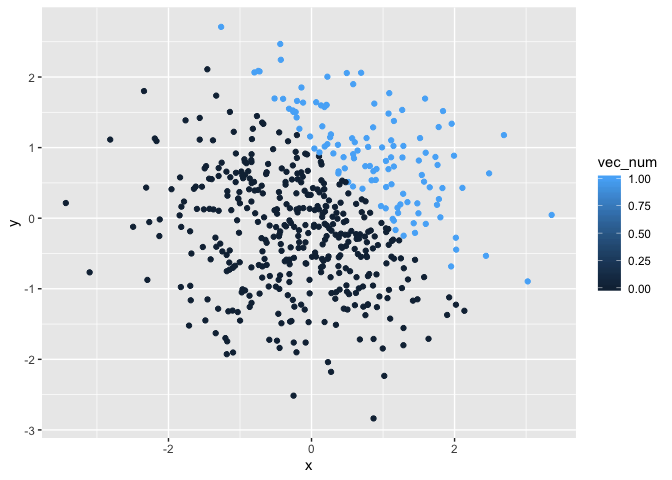
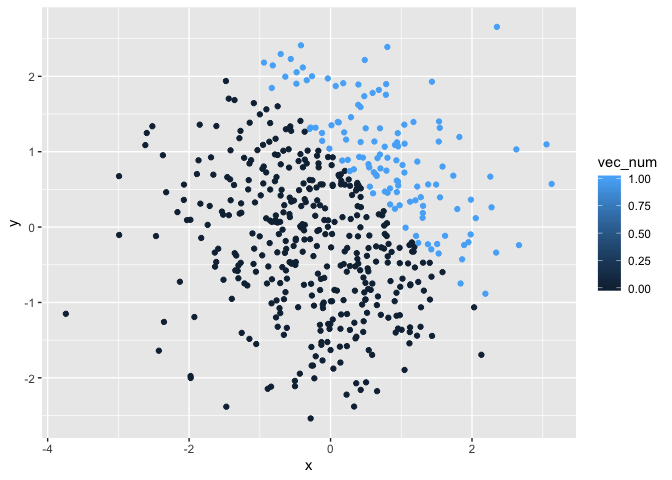
Made changes in the R markdown file

diff --git a/p8105_hw1_Ec3342.md b/p8105_hw1_Ec3342.md
@@ -3,19 +3,17 @@ p8105\_hw1\_Ec3342
 Ekta Chaudhary
 19/09/2019
 
-## Question 1
-
-\#Here’s the first **code chunk** that creates a data frame called
-first\_df comprised of a random sample named norm\_samp of size 8 from a
-*standard normal distribution*, a logical vector named vec\_log
+\#Question 1 \#Here’s the first **code chunk** that creates a data frame
+called first\_df comprised of a random sample named norm\_samp of size 8
+from a *standard normal distribution*, a logical vector named vec\_log
 indicating whether elements of the sample are greater than 0, a
 character vector named vec\_char of length 8 and a factor vector named
 vec\_factor of length 8, with 3 different factor levels- Here the three
 levels are 1,2 and 3. After creating the data frame, I tried taking the
 mean of each variable in the data frame. mean\_norm gives the mean of
-the random sample- norm\_samp; mean\_log gives us the mean of the
-logical vector- vec\_log. When I tried taking the mean of the character
-vector- vec\_char and the factor vector- vec\_factor, I got an error
+the random sample (norm\_samp); mean\_log gives us the mean of the
+logical vector (vec\_log). When I tried taking the mean of the character
+vector (vec\_char) and the factor vector (vec\_factor), I got an error
 saying the argument is not numeric or logical: returning
     N/A.
 
@@ -58,56 +56,80 @@ mean_fac = mean(pull(first_df,vec_factor))
     ## Warning in mean.default(pull(first_df, vec_factor)): argument is not
     ## numeric or logical: returning NA
 
-\#I am writing a code chunk to apply the as.numeric function to the
-logical, character, and factor variables. I am hiding the output by
-giving eval= FALSE in the code chunk. When I applied the as.numeric
+\#Now writing a **code chunk** to apply the **as.numeric** function to
+the logical, character, and factor variables. Hiding the output by
+giving **eval = FALSE** in the code chunk. After applying the as.numeric
 function, the logical vector, character vector and the factor vector
-gets converted to numeric. When I tried taking the mean after this
-conversion, I no longer got the error. Therefore, applying as.numeric
-function allows us to take the mean of each variable in our dataframe.
+gets converted to numeric.as.numeric will return the numeric codes that
+correspond to the logical vector, character vector and factor vector. If
+we try taking the mean after this conversion, we no longer get an error.
+Therefore, applying as.numeric function allows us to take the mean of
+each variable in our dataframe.
 
 ``` r
-mean(as.numeric(first_df[["vec_log"]]))
-mean(as.numeric(first_df[["vec_char"]]))
-mean(as.numeric(first_df[["vec_factor"]]))
+as.numeric(pull(first_df,vec_log))
+
+as.numeric(pull(first_df,vec_char))
+
+as.numeric(pull(first_df,vec_factor))
+
+mean(as.numeric(pull(first_df,vec_log)))
+
+mean(as.numeric(pull(first_df,vec_char)))
+
+mean(as.numeric(pull(first_df,vec_factor)))
 ```
 
-\#Here’s the second **code chunk** In line 44: Converting the logical
-vector, vec\_log to numeric using the as.numeric function and then
-multiplying the result with the random sample. In line 45: Converting
-the logical vector to factor vector using the as.factor function and
-then trying to multiply the result with the random sample.Got an error
-here saying ’\*’ is not meaningful for factors. In line 46: Converting
-the logical vector to a factor vector and then converted the result to
-numeric followed by multiplying the result with the random sample. On
-doing so,I didn’t get any error because I first converted the factor
-vector into numeric and then multiplied that with the random sample.
+\#Here’s the second **code chunk** \#Converting the logical vector
+(vec\_log) to numeric using the **as.numeric** function and then
+multiplying the result with the random sample(norm\_samp).  
+\#Converting the logical vector (vec\_log) to factor vector using the
+**as.factor** function and then trying to multiply the result with the
+random sample(norm\_samp). On doing so, I got an error here saying ’\*’
+is not meaningful for factors.  
+\#Converting the logical vector to a factor vector using as.factor and
+then converted the result to numeric using as.numeric; followed by
+multiplying the result with the random sample.On doing so,I didn’t get
+any error because I first converted the factor vector into numeric and
+then multiplied that with the random
+    sample.
 
 ``` r
-num_random = as.numeric(first_df[["vec_log"]])*(first_df[["norm_samp"]])
-num_factor = as.factor(first_df[["vec_log"]])*(first_df[["norm_samp"]])
+as.numeric(first_df[["vec_log"]])*(first_df[["norm_samp"]])
+```
+
+    ## [1] 0.9032420 0.1391128 1.1337231 0.2007447 1.9404302 0.1585310 0.3938434
+    ## [8] 0.0000000
+
+``` r
+as.factor(first_df[["vec_log"]])*(first_df[["norm_samp"]])
 ```
 
     ## Warning in Ops.factor(as.factor(first_df[["vec_log"]]),
     ## (first_df[["norm_samp"]])): '*' not meaningful for factors
 
+    ## [1] NA NA NA NA NA NA NA NA
+
 ``` r
-num_factor = as.numeric(as.factor(first_df[["vec_log"]]))*(first_df[["norm_samp"]])
+as.numeric(as.factor(first_df[["vec_log"]]))*(first_df[["norm_samp"]])
 ```
 
-\#\#Question 2: Creating a data frame comprised of: x which is a random
+    ## [1]  1.8064841  0.2782255  2.2674461  0.4014894  3.8808603  0.3170621
+    ## [7]  0.7876868 -1.7769408
+
+\#Question 2: Creating a data frame comprised of: x which is a random
 sample of size 500 from a standard Normal distribution, y which is a
 random sample of size 500 from a standard Normal distribution, A logical
-vector, vec\_log2 indicating whether x + y \> 1, a numeric vector,
-vec\_num created by coercing the above logical vector and A factor
-vector created by coercing the above logical vector
+vector (vec\_log2) indicating whether x + y \> 1, a numeric vector
+(vec\_num), created by coercing the above logical vector and a factor
+vector(vec\_fac) created by coercing the above logical vector
 
 ``` r
 library(tidyverse)
 
 second_df = tibble(
-  x = rnorm (500) ,
-  y = rnorm (500),
+  x = rnorm(500),
+  y = rnorm(500),
   vec_log2 = x + y > 1,
 )
 vec_num = as.numeric(second_df[["vec_log2"]])
@@ -126,24 +148,24 @@ ncol(second_df)
 
 ``` r
 mean_x = mean(pull(second_df,x))
-median_x = median (pull(second_df,x))
-sd_x = sd (pull(second_df,x))
+median_x = median(pull(second_df,x))
+sd_x = sd(pull(second_df,x))
 prop = sum(second_df[["vec_log2"]], na.rm = TRUE)/nrow(second_df)
-plot_logical = ggplot(second_df, aes(x=x, y=y, color= vec_log2)) + geom_point()
+plot_logical = ggplot(second_df, aes(x = x, y = y, color = vec_log2)) + geom_point()
 plot_logical
 ```
 
 ![](p8105_hw1_Ec3342_files/figure-gfm/question%202-1.png)<!-- -->
 
 ``` r
-plot_num = ggplot(second_df, aes(x=x, y=y, color= vec_num)) + geom_point()
+plot_num = ggplot(second_df, aes(x = x, y = y, color = vec_num)) + geom_point()
 plot_num
 ```
 
 ![](p8105_hw1_Ec3342_files/figure-gfm/question%202-2.png)<!-- -->
 
 ``` r
-plot_fac =  ggplot(second_df, aes(x=x, y=y, color= vec_fac)) + geom_point()
+plot_fac =  ggplot(second_df, aes(x = x, y = y, color = vec_fac)) + geom_point()
 plot_fac
 ```
 
